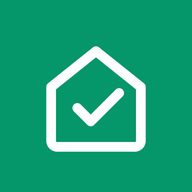
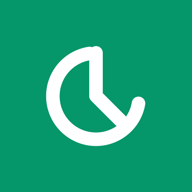
fix(pwa): el icono es el logotipo de Clocc, y el cartel instalado abre el cartel
Va con el backend eba13c5.

1. EL ICONO ERA UNA CASITA CON UNA PALOMITA, de cuando lo único instalable era
   «checar desde casa». En la pantalla de inicio de quien ficha en la nave, una
   casa no significa nada. Ahora es el logotipo de Clocc —los mismos trazos que
   dibuja AstraLogo.vue, sin el degradado, que a tamaño de icono se pierde—.
   Los cuatro tamaños: 192, 512, el maskable con el dibujo encogido para que
   Android no le coma el borde al recortar, y el de iPhone a 180.

2. EL ICONO INSTALADO ABRÍA LA PANTALLA EQUIVOCADA: la de checar a distancia,
   con un «este equipo no está dado de alta en ninguna empresa» a quien solo
   quería fichar en su puerta. La causa: un sitio tiene UN manifiesto y el de
   Clocc apunta a /remoto. Cambiar la etiqueta al montar la pantalla no basta —
   para entonces Safari ya pidió el manifiesto y no vuelve a mirarlo—, así que
   ahora se decide en la cabecera del index.html, mientras el navegador aún
   está leyendo. Y por si algún icono quedó mal creado, la pantalla de entrada
   del remoto manda a la puerta cuando este teléfono recuerda una base.

3. El código vuelve a admitir de 4 a 6 cifras en las dos pantallas.

Changed region(s): [[0.2188, 0.2188, 0.7812, 0.8125], [0.2188, 0.4375, 0.25, 0.4688]]

diff --git a/index.html b/index.html
@@ -18,6 +18,39 @@
     -->
     <link rel="apple-touch-icon" href="/iconos/apple-touch-icon.png">
     <meta name="theme-color" content="#059669">
+    <script>
+      /*
+       * QUÉ APLICACIÓN SE ESTÁ INSTALANDO, DECIDIDO ANTES DE QUE EL NAVEGADOR
+       * LEA EL MANIFIESTO.
+       *
+       * Un sitio tiene UN manifiesto, y el de Clocc apunta a `/remoto` —checar
+       * desde casa—. Quien añadía a su pantalla de inicio el cartel de la
+       * puerta acababa con un icono que abría la pantalla de checar a distancia
+       * y le decía «este equipo no está dado de alta en ninguna empresa».
+       *
+       * Se intentó cambiar la etiqueta al montar la pantalla y NO BASTA: para
+       * entonces Safari ya pidió el manifiesto y no vuelve a mirarlo. Aquí
+       * ocurre mientras el navegador aún está leyendo la cabecera, que es el
+       * único momento en que sirve.
+       *
+       * La etiqueta la inyecta el plugin de PWA al construir, así que puede no
+       * existir todavía cuando esto corre: si no está, se crea.
+       */
+      try {
+        if (location.pathname.indexOf('/checar') === 0) {
+          var enlace = document.querySelector('link[rel="manifest"]')
+          if (!enlace) {
+            enlace = document.createElement('link')
+            enlace.rel = 'manifest'
+            document.head.appendChild(enlace)
+          }
+          enlace.href = '/manifest-checar.webmanifest'
+        }
+      } catch (e) {
+        /* Sin manifiesto correcto el icono llevará a la otra pantalla, que
+           explica qué hacer. No es motivo para no pintar la página. */
+      }
+    </script>
     <!--
       El editor de geocercas pide sus imágenes a Mapbox. Resolver el nombre y
       dar la mano de TLS cuesta un tercio de segundo que hoy se paga cuando el

diff --git a/src/modules/remoto/views/RemoteEntryView.vue b/src/modules/remoto/views/RemoteEntryView.vue
@@ -2,6 +2,7 @@
 import { onMounted, ref } from 'vue'
 import { useRouter } from 'vue-router'
 import { ultimaEmpresa } from '../telefono-guardado'
+import { miBase } from '@/modules/org/mi-base'
 
 /**
  * LA PUERTA DEL ICONO DE LA PANTALLA DE INICIO.
@@ -21,6 +22,25 @@ const sinEmpresa = ref(false)
 onMounted(() => {
   const empresa = ultimaEmpresa()
   if (empresa === null) {
+    /*
+     * RED DE ABAJO PARA EL ICONO QUE SE INSTALÓ MAL.
+     *
+     * El manifiesto del sitio apunta aquí, así que un icono creado antes de que
+     * el cartel tuviera el suyo —o por un navegador que no hizo caso— aterriza
+     * en esta pantalla y le dice a alguien que su equipo no está dado de alta,
+     * cuando lo que esa persona quería era fichar en la puerta de su trabajo.
+     *
+     * Si este teléfono recuerda una base, era eso: se le manda allí en vez de
+     * dejarlo leyendo un texto que no le toca.
+     */
+    const base = miBase()
+    if (base !== null) {
+      void router.replace({
+        name: 'phone-check-in',
+        params: { entityId: base.entityId, installationId: base.installationId },
+      })
+      return
+    }
     sinEmpresa.value = true
     return
   }

diff --git a/src/modules/credencial/views/RegistroCredencialView.vue b/src/modules/credencial/views/RegistroCredencialView.vue
@@ -86,7 +86,7 @@ const puedeCanjear = computed(() => /^\d{6}$/.test(codigoDelCorreo.value) && !en
  * puerta y su código no es el que recuerda.
  */
 const miCodigoCuadra = computed(
-  () => /^\d{6}$/.test(miCodigo.value) && miCodigo.value === miCodigoOtraVez.value,
+  () => /^\d{4,6}$/.test(miCodigo.value) && miCodigo.value === miCodigoOtraVez.value,
 )
 
 const venceEnPalabras = computed(() => {
@@ -258,7 +258,7 @@ async function activarMiCara(): Promise<void> {
           -->
           <UFormField
             label="Inventa tu código"
-            help="Seis números que elijas tú. NO es el del correo: este es el que vas a teclear en la puerta."
+            help="De 4 a 6 números que elijas tú. NO es el del correo: este es el que vas a teclear en la puerta."
           >
             <UInput
               v-model="miCodigo"

diff --git a/src/modules/org/views/PhoneCheckInView.vue b/src/modules/org/views/PhoneCheckInView.vue
@@ -64,7 +64,7 @@ const puedeFirmar = ref(false)
 const conMiCodigo = ref(false)
 const codigo = ref('')
 
-const puedeConCodigo = computed(() => /^\d{6}$/.test(codigo.value) && !enviando.value)
+const puedeConCodigo = computed(() => /^\d{4,6}$/.test(codigo.value) && !enviando.value)
 
 /**
  * EL CARTEL SE INSTALA COMO SU PROPIA APLICACIÓN, no como la de a distancia.
@@ -290,7 +290,7 @@ function otraPersona(): void {
         <form class="space-y-4" @submit.prevent="checarConMiCodigo">
           <UFormField
             label="Tu código"
-            help="Los seis números que inventaste al registrarte. No es tu número de empleado."
+            help="Los números que inventaste al registrarte. No es tu número de empleado."
           >
             <UInput
               v-model="codigo"
